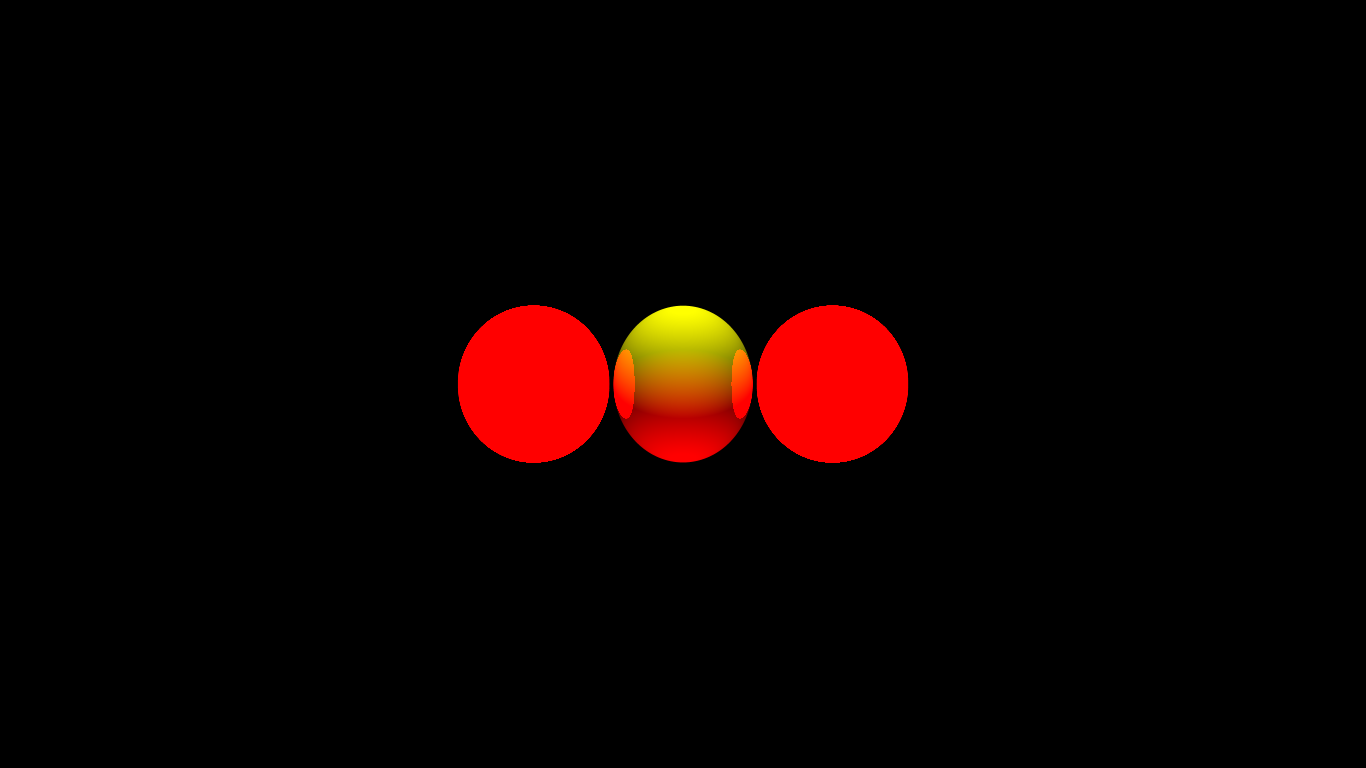
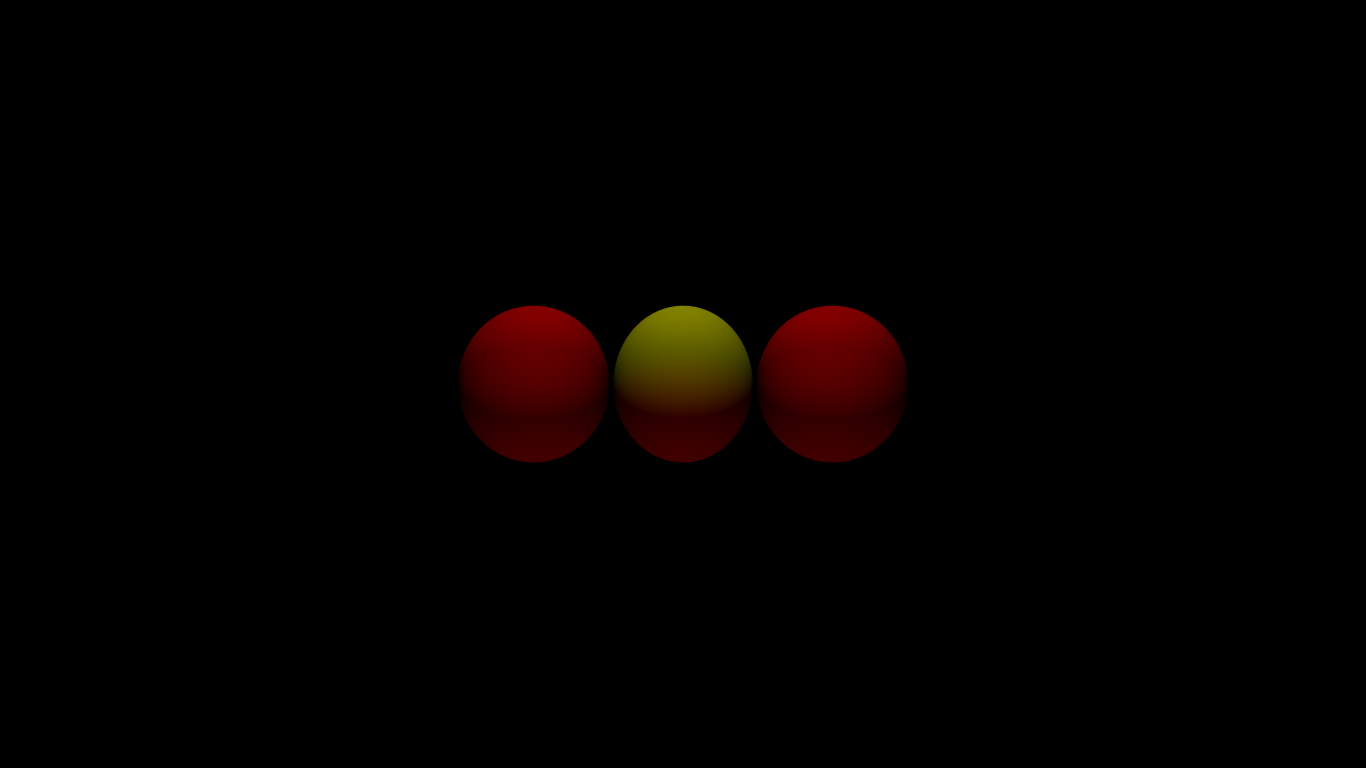
Better metal

Changed region(s): [[0.3382, 0.375, 0.6764, 0.625]]

diff --git a/src/raytracer/materials/metal.rs b/src/raytracer/materials/metal.rs
@@ -3,22 +3,39 @@ use crate::raytracer::hittables::hittable::HitInfo;
 use crate::raytracer::materials::material::MaterialPrimitive;
 use crate::raytracer::ray::Ray;
 use crate::raytracer::scene::Scene;
+use crate::raytracer::utils::consts::RAY_PER_PIXELS;
+use crate::raytracer::utils::vec::Vec3;
+use rand::Rng;
 
 #[derive(Clone)]
-pub struct Metal {}
+pub struct Metal {
+    pub fuzziness: f32,
+}
 
 impl MaterialPrimitive for Metal {
-    fn get_color(&self, hitinfo: &HitInfo, scene: &Scene, max_iter: usize) -> Color {
+    fn get_color(&self, hitinfo: &HitInfo, scene: &Scene, max_iter: usize, rng: &mut rand::XorShiftRng) -> Color {
         if max_iter > 0 {
-            let new_direction = hitinfo.rayon.reflect(&hitinfo.normal).normalized();
-            let other_color = scene.trace(
-                &Ray {
-                    origin: hitinfo.point + 0.1 * new_direction,
-                    direction: new_direction,
-                },
-                max_iter - 1,
-            );
-            return other_color;
+            let mut new_color = BLACK;
+            for i in 0..2 {
+                for j in 0..2 {
+                    let new_direction = hitinfo.rayon.reflect(&hitinfo.normal).normalized()
+                        + self.fuzziness
+                                    * Vec3 {
+                                        x: rng.next_f32() * 2.0 - 1.0,
+                                        y: rng.next_f32() * 2.0 - 1.0,
+                                        z: rng.next_f32() * 2.0 - 1.0,
+                                    };
+                    new_color += scene.trace(
+                        &Ray {
+                            origin: hitinfo.point + 0.1 * new_direction,
+                            direction: new_direction,
+                        },
+                        max_iter - 1,
+                        rng
+                    );
+                }
+            }
+            return new_color / (RAY_PER_PIXELS as f32 * RAY_PER_PIXELS as f32);
         }
         BLACK
     }

diff --git a/src/main.rs b/src/main.rs
@@ -59,7 +59,7 @@ fn main() {
         1.0,
     );
 
-    let metal = Arc::new(materials::metal::Metal {});
+    let metal = Arc::new(materials::metal::Metal {fuzziness: 0.00});
     let diffuse = Arc::new(materials::diffuse::Diffuse {});
 
     let plain_color = textures::plain::Plain {
@@ -91,7 +91,7 @@ fn main() {
     });
     let light_omnidirectional_2 = Arc::new(Omnidirectional {
         color: Color {
-            r: 1.0,
+            r: 0.5,
             g: 0.0,
             b: 1.0,
         },
@@ -105,7 +105,7 @@ fn main() {
     scene.add_primitive(
         Arc::new(sphere),
         Arc::new(Material {
-            materials: vec![(0.1, diffuse.clone()), (0.9, metal.clone())],
+            materials: vec![(0.05, diffuse.clone()), (1.0, metal.clone())],
             texture_ratio: 0.1,
         }),
         Arc::new(plain_color_2),
@@ -113,7 +113,7 @@ fn main() {
     scene.add_primitive(
         Arc::new(sphere_2),
         Arc::new(Material {
-            materials: vec![(0.95, diffuse.clone())],
+            materials: vec![(0.05, diffuse.clone())],
             texture_ratio: 0.1,
         }),
         Arc::new(plain_color),
@@ -121,7 +121,7 @@ fn main() {
     scene.add_primitive(
         Arc::new(sphere_3),
         Arc::new(Material {
-            materials: vec![(0.95, diffuse.clone()), (0.05, metal.clone())],
+            materials: vec![(0.05, diffuse.clone()), (1.0, metal.clone())],
             texture_ratio: 0.1,
         }),
         Arc::new(plain_color),

diff --git a/src/raytracer/integrator/simple_integrator.rs b/src/raytracer/integrator/simple_integrator.rs
@@ -23,17 +23,18 @@ impl Integrator for SimpleIntegrator {
     fn preprocess(&mut self) {}
 
     // NEXT: Remplacer Color par un spectre
-    fn compute_ray(&self, ray: Ray) -> Color {
-        self.scene.trace(&ray, MAX_ITERATION)
+    fn compute_ray(&self, ray: Ray, rng: &mut rand::XorShiftRng) -> Color {
+        self.scene.trace(&ray, MAX_ITERATION, rng)
     }
 
     fn render(&mut self) {
         // NEXT: Intégrer le parallélisme ici
+        let mut rng = rand::XorShiftRng::new_unseeded();
         for tile_index in 0..self.camera.tiles.len() {
             for pixel_index in 0..self.camera.tiles[tile_index].rays.len() {
                 let mut new_color = BLACK;
                 for ray_index in 0..self.camera.tiles[tile_index].rays[pixel_index].len() {
-                    new_color += self.compute_ray(self.camera.tiles[tile_index].rays[pixel_index][ray_index]);
+                    new_color += self.compute_ray(self.camera.tiles[tile_index].rays[pixel_index][ray_index], &mut rng);
                 }
                 self.camera.tiles[tile_index].buffer[pixel_index] = new_color / self.camera.tiles[tile_index].rays[pixel_index].len() as f32;
             }

diff --git a/src/raytracer/materials/material.rs b/src/raytracer/materials/material.rs
@@ -4,7 +4,7 @@ use crate::raytracer::scene::Scene;
 use std::sync::Arc;
 
 pub trait MaterialPrimitive: Sync + Send {
-    fn get_color(&self, hitinfo: &HitInfo, scene: &Scene, max_iter: usize) -> Color;
+    fn get_color(&self, hitinfo: &HitInfo, scene: &Scene, max_iter: usize, rng: &mut rand::XorShiftRng) -> Color;
 }
 
 pub struct Material {
@@ -13,10 +13,10 @@ pub struct Material {
 }
 
 impl Material {
-    pub fn get_color(&self, hitinfo: &HitInfo, scene: &Scene, max_iter: usize) -> Color {
+    pub fn get_color(&self, hitinfo: &HitInfo, scene: &Scene, max_iter: usize, rng: &mut rand::XorShiftRng) -> Color {
         let mut new_color = BLACK;
         for (weight, material) in self.materials.iter() {
-            new_color += material.get_color(hitinfo, scene, max_iter) * *weight;
+            new_color += material.get_color(hitinfo, scene, max_iter, rng) * *weight;
         }
         new_color
     }

diff --git a/src/raytracer/scene.rs b/src/raytracer/scene.rs
@@ -95,12 +95,12 @@ impl Scene {
         (closest_hitinfo, closest_primitive)
     }
 
-    pub fn trace(&self, rayon: &Ray, max_iter: usize) -> Color {
+    pub fn trace(&self, rayon: &Ray, max_iter: usize, rng: &mut rand::XorShiftRng) -> Color {
         let (closest_hitinfo, closest_primitive) = self.launch_ray(rayon);
 
         if let Some(object) = closest_primitive {
             // Get material color (color due to reflect, refract...)
-            let material_color = object.material.get_color(&closest_hitinfo, self, max_iter);
+            let material_color = object.material.get_color(&closest_hitinfo, self, max_iter, rng);
             // Get Texture color
             let texture_color = object.texture.get_color(&closest_hitinfo);
             return texture_color *  material_color;

diff --git a/src/raytracer/materials/diffuse.rs b/src/raytracer/materials/diffuse.rs
@@ -9,7 +9,7 @@ use crate::raytracer::utils::vec::Vec3;
 pub struct Diffuse {}
 
 impl MaterialPrimitive for Diffuse {
-    fn get_color(&self, hitinfo: &HitInfo, scene: &Scene, max_iter: usize) -> Color {
+    fn get_color(&self, hitinfo: &HitInfo, scene: &Scene, max_iter: usize, rng: &mut rand::XorShiftRng) -> Color {
         let mut new_color = BLACK;
         let mut i = 0;
         for light in scene.lights.iter() {

diff --git a/src/raytracer/integrator/integrator.rs b/src/raytracer/integrator/integrator.rs
@@ -6,5 +6,5 @@ pub trait Integrator {
     fn preprocess(&mut self);
     fn render(&mut self);
     // NEXT: Remplacer Color par un spectre
-    fn compute_ray(&self, rayon: Ray) -> Color;
+    fn compute_ray(&self, rayon: Ray, rng: &mut rand::XorShiftRng) -> Color;
 }
